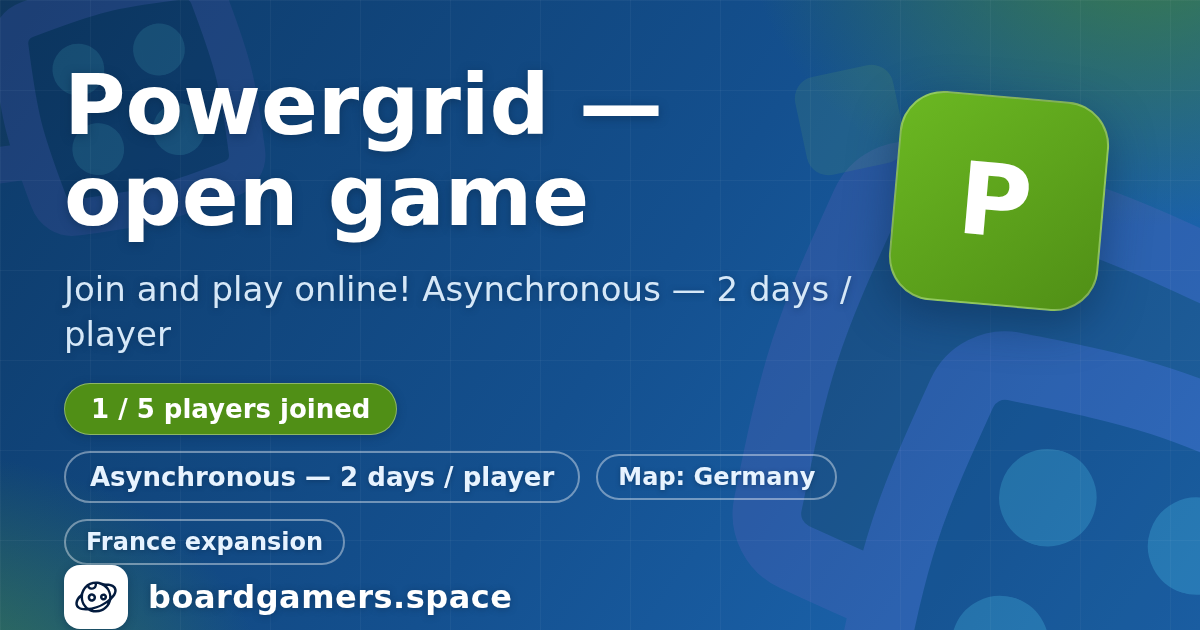
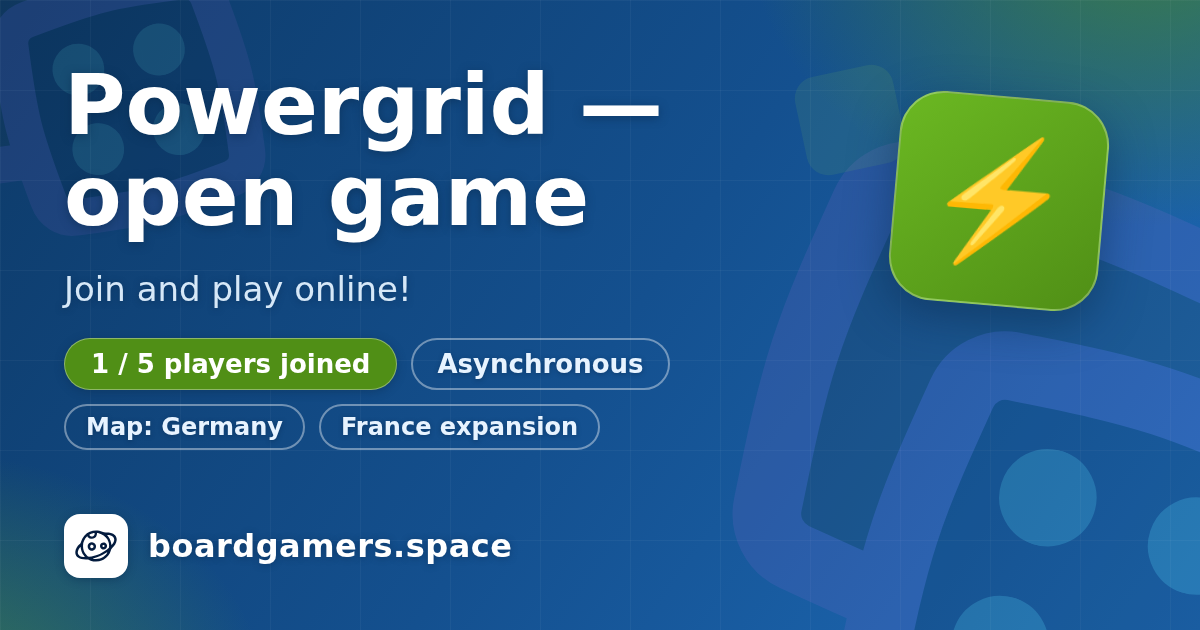
fix(web): declutter OG game card chips — full-width row + compact pace/subtitle
The chips row was capped at 880px (to clear the top-right badge) even though
the chips sit *below* that badge — so players + pace + option chips wrapped to
three stacked rows and pushed the brand off the bottom. Widen the chips row to
the full card width (~1072px, badge only overlaps the title area) so they flow
horizontally on one–two tidy rows.

Also stop duplicating the full pace in both the subtitle and the pace chip:
the pace chip is now compact ("Asynchronous" / "Live") and the subtitle drops
its trailing pace text, so neither wraps.

diff --git a/apps/web/src/lib/thumbnail-data.server.ts b/apps/web/src/lib/thumbnail-data.server.ts
@@ -6,7 +6,6 @@ import { fetchGameInfo, fetchGameInfos } from "@/lib/game-info.svelte";
 import { countryFlag, countryName } from "@/lib/countries";
 import { firstSentence, siteName, truncate } from "@/lib/seo";
 import { gameEmoji, gameLabel } from "@/utils/game-label";
-import { duration } from "@/utils/time";
 import type { GameFront, GameInfoFront, GamePreferencesFront, UserFront } from "@bgs/models";
 
 // Card content for the /thumbnail/* pages, derived server-side from the db (via the API)
@@ -83,14 +82,13 @@ export async function loadGameCard(gameId: string): Promise<CardData> {
 	let card: OgCardData;
 	if (game.status === "open") {
 		// Chips mirror OpenGame.svelte: players joined + pace (≥24h/player = asynchronous).
+		// Subtitle stays short (the full pace is a chip) so it doesn't wrap; the pace chip is
+		// compact ("Asynchronous" / "Live") to leave room for the option chips on one row.
 		const timePerGame = game.options.timing.timePerGame ?? 0;
-		const pace =
-			timePerGame >= 24 * 3600
-				? `Asynchronous — ${duration(timePerGame)} / player`
-				: `Live — ${duration(timePerGame)} / player`;
+		const pace = timePerGame >= 24 * 3600 ? "Asynchronous" : "Live";
 		card = {
 			title: `${label} — open game`,
-			subtitle: `Join and play online! ${pace}`,
+			subtitle: "Join and play online!",
 			game: label,
 			emoji,
 			players: `${game.players.length} / ${game.options.setup.nbPlayers} players joined`,

diff --git a/apps/web/src/components/OG/OGCard.svelte b/apps/web/src/components/OG/OGCard.svelte
@@ -121,7 +121,10 @@
 				</div>
 			{/if}
 			{#if players || pace || karma || country || topGame || cta || gameOptions.length > 0}
-				<div style="display: flex; align-items: center; flex-wrap: wrap; gap: 16px; max-width: 880px;">
+				<!-- Chips sit below the top-right badge, so they can span the full card width
+				(~1072px) instead of the 840px the title/subtitle need to clear the badge — keeps
+				players + pace + option chips on one horizontal row instead of stacking. -->
+				<div style="display: flex; align-items: center; flex-wrap: wrap; gap: 14px; max-width: 1072px;">
 					{#if players}
 						<div
 							style="font-size: 26px; font-weight: 600; color: #ffffff; background: {colors.accent}; border: 1px solid rgba(255,255,255,0.35); border-radius: 999px; padding: 10px 26px; box-shadow: 0 2px 10px rgba(9, 42, 77, 0.4);"
